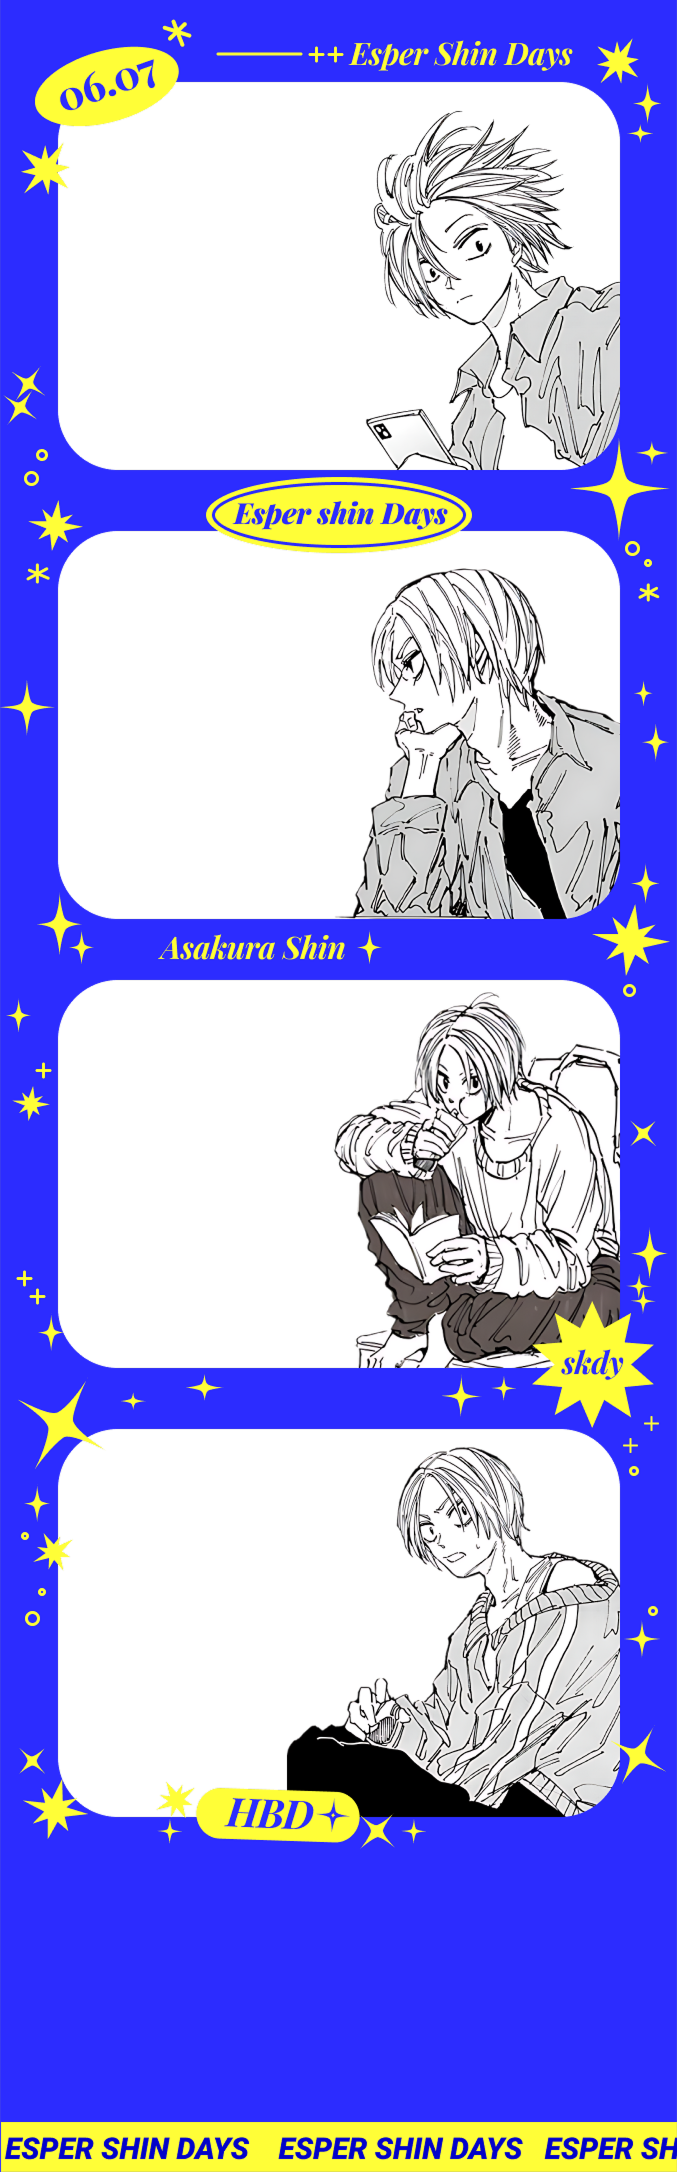
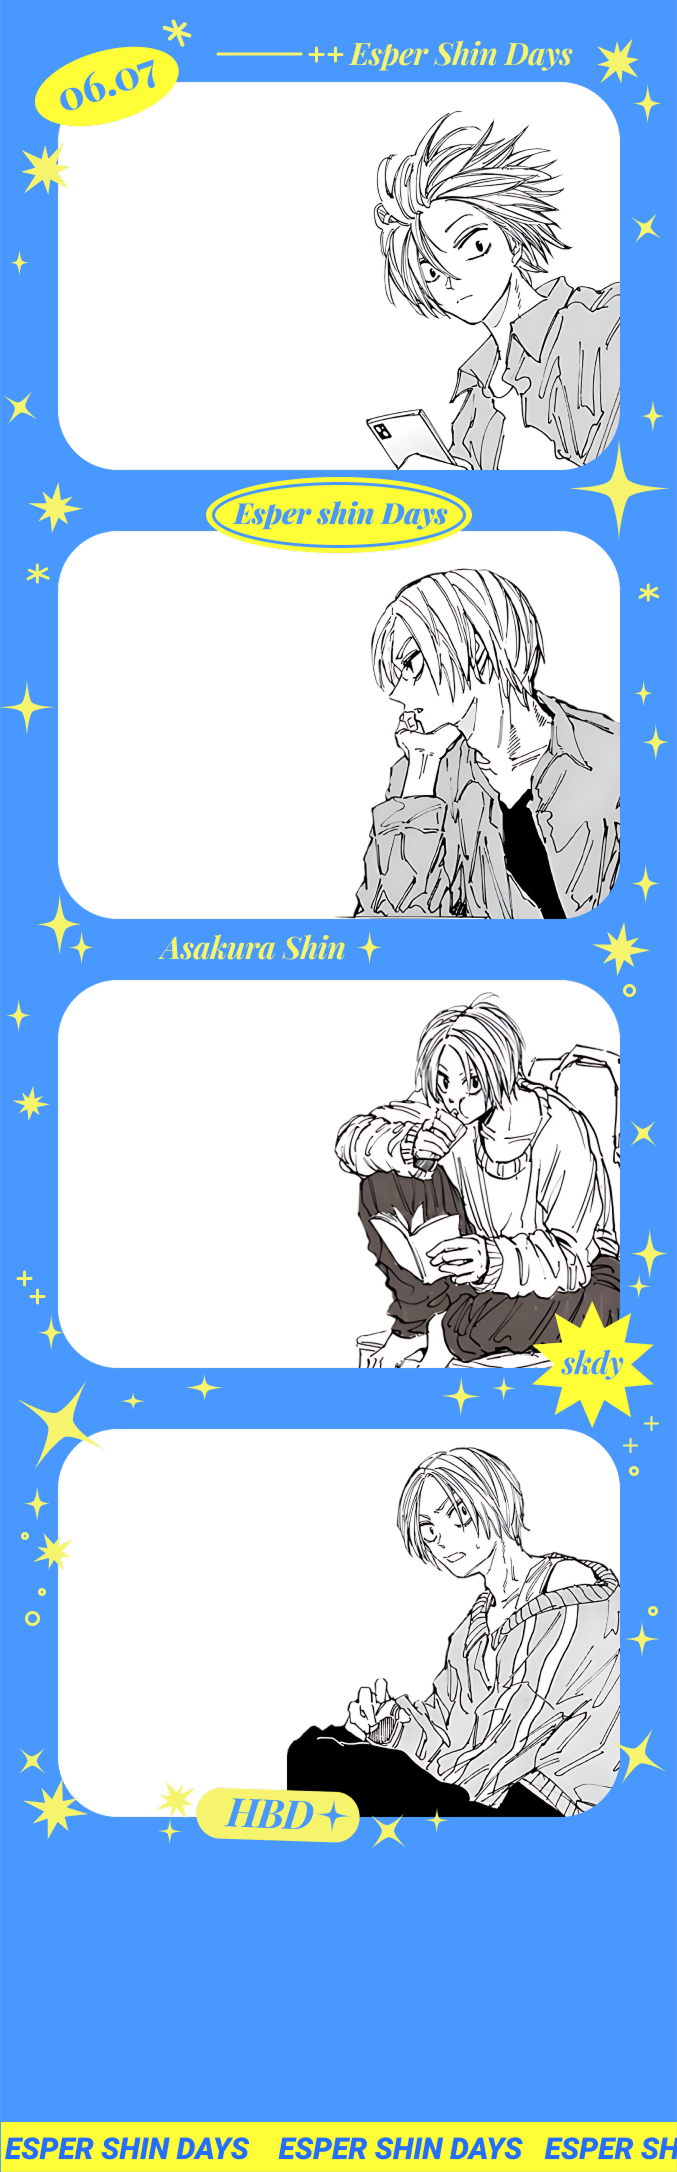
blue frame 디자인 수정, saveEdit 프레임 높이 설정

diff --git a/src/pages/SaveEditSnapshot/SaveEditSnapshot.module.scss b/src/pages/SaveEditSnapshot/SaveEditSnapshot.module.scss
@@ -86,6 +86,7 @@
     flex-direction: column;
     .resultFrameWrap {
       width: 300px;
+      height: 962px;
     }
     .capturedImgWrap {
       padding: 36px 25px 0 25px;
@@ -127,6 +128,10 @@
       }
     }
     &.white {
+      .resultFrameWrap {
+        width: 300px;
+        height: 450px;
+      }
       .capturedImgWrap {
         padding: 100px 25px 29px 25px;
         gap: 9px 11px;
@@ -148,6 +153,7 @@
     gap: 50px;
     .resultFrameWrap {
       width: 350px;
+      height: 1122px;
     }
     .capturedImgWrap {
       padding: 42px 29px 0 29px;
@@ -175,6 +181,7 @@
       gap: 40px;
       .resultFrameWrap {
         width: 370px;
+        height: 555px;
       }
       .capturedImgWrap {
         padding: 122px 31px 36px 31px;
